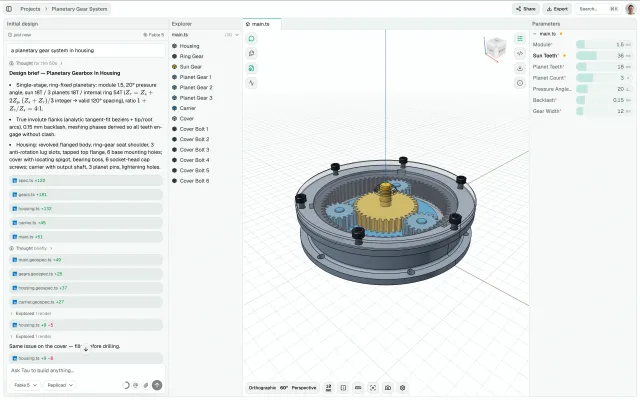
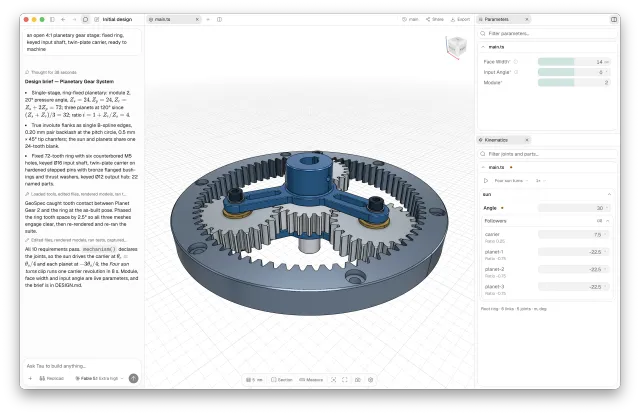
feat(www): Use the README desktop capture for the workspace figure
Source the product workspace figure from docs/assets/tau-desktop-{light,dark}.webp,
the same macOS window capture (traffic lights and shadow) as the README hero, and
serve the dark capture under prefers-color-scheme: dark. The capture carries its own
frame and shadow, so the CSS border and shadow are dropped, and negative margins align
the window rather than its transparent shadow with the column.

diff --git a/apps/www/src/site.css b/apps/www/src/site.css
@@ -1070,11 +1070,12 @@ main > .band:first-child::before {
   display: grid;
   gap: 1rem;
 }
+/* The capture carries its own macOS window frame and shadow; the negative margins align the window, not the
+   transparent shadow, with the column (window 3456 × 2160 inside a 3680 × 2384 image, inset 112 / 76 / 148 px). */
 .workspace img {
-  width: 100%;
-  border: 1px solid var(--line);
-  border-radius: var(--radius-xl);
-  box-shadow: var(--shadow-md);
+  width: calc(100% * 3680 / 3456);
+  max-width: none;
+  margin: calc(-100% * 76 / 3456) calc(-100% * 112 / 3456) calc(-100% * 148 / 3456);
 }
 .workspace figcaption {
   display: flex;
@@ -1857,9 +1858,6 @@ main > .band:first-child::before {
   .case-image,
   .case-detail-image {
     background: oklch(0.94 0 none);
-  }
-  .workspace img {
-    color-scheme: light;
   }
   .plan.featured {
     background: color-mix(in oklch, var(--muted) 60%, transparent);
